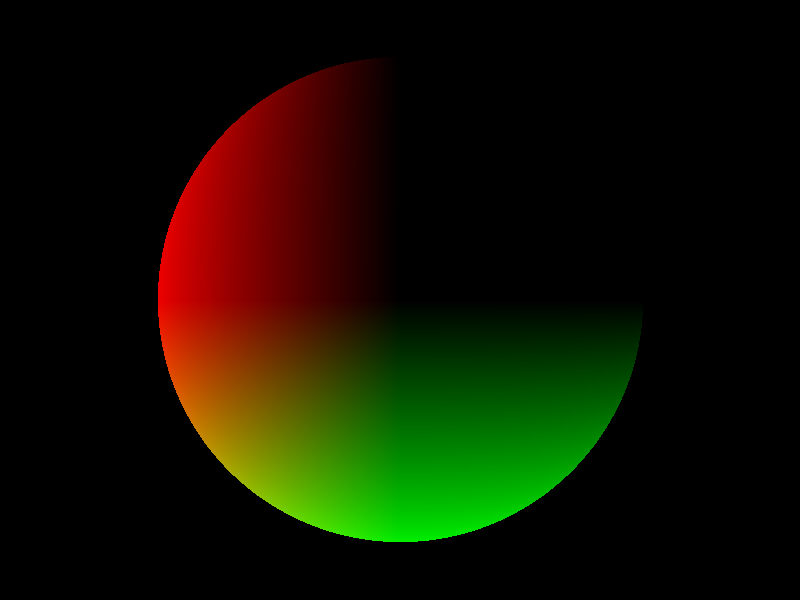
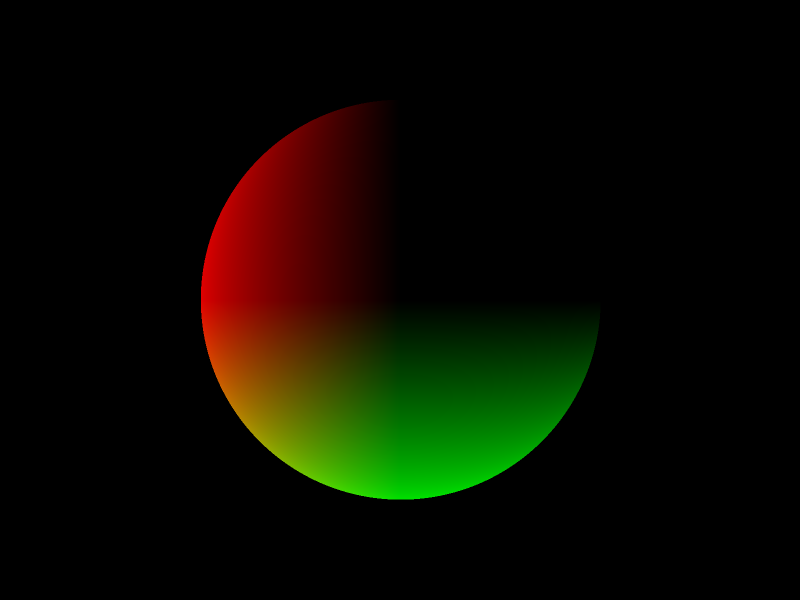
Anti-aliasing and better camera

Changed region(s): [[0.1875, 0.09, 0.8125, 0.9]]

diff --git a/forgedthoughts/src/ft.rs b/forgedthoughts/src/ft.rs
@@ -1,3 +1,5 @@
+use std::ops::Mul;
+
 pub use crate::prelude::*;
 pub use rhai::{Engine, Scope};
 pub mod fx;
@@ -36,8 +38,6 @@ impl FT {
 
         let [width, height] = buffer.size;
 
-        let ratio = width as F / height as F;
-
         let mut sdfs : Vec<SDF> = vec![];
 
         let iter = scope.iter();
@@ -65,38 +65,59 @@ impl FT {
                     let xx = x as F / width as F;
                     let yy = y as F / height as F;
 
-                    let coord = F2::new((xx - 0.5) * ratio, (1.0 - yy) - 0.5);
+                    let coord = F2::new(xx, 1.0 - yy);
 
-                    let [ro, rd] = self.create_camera_ray(coord, F3::new(0.0, 0.0, -5.0), F3::zeros());
+                    let aa = 2;
+                    let mut total = [0.0, 0.0, 0.0, 0.0];
 
-                    let mut c = [0.0, 0.0, 0.0, 1.0];
-                    //let mut hit = false;
+                    for m in 0..aa {
+                        for n in 0..aa {
 
-                    for s in &sdfs {
-                        //println!("{:?}", s);
+                            let mut color = [0.0, 0.0, 0.0, 1.0];
 
-                        let dist = 0.0001;
+                            let cam_offset = F2::new(m as F / aa as F, n as F / aa as F) - F2::new(0.5, 0.5);
+                            let [ro, rd] = self.create_camera_ray(coord, F3::new(0.0, 0.0, -3.0), F3::new(0.0, 0.0, 0.0), cam_offset, width as F, height as F);
 
-                        let mut t = dist;
-                        let t_max = 10.0;
+                            //let mut hit = false;
 
-                        for _i in 0..24 {
-                            let p = ro + rd.mult_f(&t);
-                            let d = s.distance(p);
-                            if d < 0.001 {
-                                let n = s.normal(p);
-                                c[0] = n.x;
-                                c[1] = n.y;
-                                c[2] = n.z;
+                            for s in &sdfs {
+                                //println!("{:?}", s);
+
+                                let dist = 0.0001;
+
+                                let mut t = dist;
+                                let t_max = 10.0;
+
+                                for _i in 0..24 {
+                                    let p = ro + rd.mult_f(&t);
+                                    let d = s.distance(p);
+                                    if d < 0.001 {
+                                        let n = s.normal(p);
+                                        color[0] = n.x;
+                                        color[1] = n.y;
+                                        color[2] = n.z;
+                                    }
+                                    if t > t_max {
+                                        break;
+                                    }
+                                    t += d;
+                                }
                             }
-                            if t > t_max {
-                                break;
-                            }
-                            t += d;
+
+                            total[0] += color[0];
+                            total[1] += color[1];
+                            total[2] += color[2];
+                            total[3] += color[3];
                         }
                     }
 
-                    pixel.copy_from_slice(&c);
+                    let aa_aa = aa as F * aa as F;
+                    total[0] /= aa_aa;
+                    total[1] /= aa_aa;
+                    total[2] /= aa_aa;
+                    total[3] /= aa_aa;
+
+                    pixel.copy_from_slice(&total);
                 }
             });
 
@@ -104,15 +125,45 @@ impl FT {
         println!("Rendered in {} ms", t as f64);
     }
 
-    pub fn create_camera_ray(&self, uv: F2, origin: F3, center: F3) -> [F3; 2] {
+    pub fn create_camera_ray(&self, uv: F2, origin: F3, center: F3, cam_offset: F2, width: F, height: F) -> [F3; 2] {
 
+        /*
         let ww = (center - origin).normalize();
         let uu = ww.cross(&F3::new(0.0, 1.0, 0.0)).normalize();
         let vv = uu.cross(&ww).normalize();
 
-        let d = (uu.mult_f(&uv.x) + vv.mult_f(&uv.y) + ww.mult_f(&2.0)).normalize();
+        let d = (uu.mult_f(&(uv.x * cam_offset.x)) + vv.mult_f(&(uv.y * cam_offset.y)) + ww.mult_f(&2.0)).normalize();
 
         [origin, d]
+        */
+
+        let fov : f64 = 70.0;
+
+        let ratio = width / height;
+
+        let pixel_size = F2::new( 1.0 / width, 1.0 / height);
+
+        let t = (fov.to_radians() * 0.5).tan();
+
+        let half_width = F3::new(t, t, t);
+        let half_height = half_width.div_f(&ratio);
+
+        let up_vector = F3::new(0.0, 1.0, 0.0);
+
+        let w = (origin - center).normalize();
+        let u = up_vector.cross(&w);
+        let v = w.cross(&u);
+
+        let lower_left = origin - half_width * u - half_height * v - w;
+        let horizontal = (u * half_width).mult_f(&2.0);
+        let vertical = v * half_height.mult_f(&2.0);
+
+        let mut rd = lower_left - origin;
+        rd += horizontal.mult_f(&(pixel_size.x * cam_offset.x + uv.x));
+        rd += vertical.mult_f(&(pixel_size.y * cam_offset.y + uv.y));
+
+        [origin, rd.normalize()]
+
     }
 
     fn get_time(&self) -> u128 {

diff --git a/forgedthoughts/src/ft/fx.rs b/forgedthoughts/src/ft/fx.rs
@@ -3,6 +3,7 @@ use crate::prelude::*;
 use std::ops::Add;
 use std::ops::Sub;
 use std::ops::Mul;
+use std::ops::Div;
 use std::ops::AddAssign;
 
 ///F2
@@ -90,6 +91,30 @@ impl F2 {
 
     pub fn xxx(&self) -> F3 {
         F3::new(self.x, self.x, self.x)
+    }
+}
+
+impl Sub for F2 {
+    type Output = F2;
+
+    fn sub(self, other: F2) -> F2 {
+        F2::new( self.x - other.x, self.y - other.y )
+    }
+}
+
+impl Mul for F2 {
+    type Output = F2;
+
+    fn mul(self, other: F2) -> F2 {
+        F2::new( self.x * other.x, self.y * other.y )
+    }
+}
+
+impl Div for F2 {
+    type Output = F2;
+
+    fn div(self, other: F2) -> F2 {
+        F2::new( self.x / other.x, self.y / other.y )
     }
 }
 
@@ -189,6 +214,13 @@ impl F3 {
         F3::new(self.x * other,
             self.y * other,
             self.z * other
+        )
+    }
+
+    pub fn div_f(&self, other: &F) -> F3 {
+        F3::new(self.x / other,
+            self.y / other,
+            self.z / other
         )
     }
 
